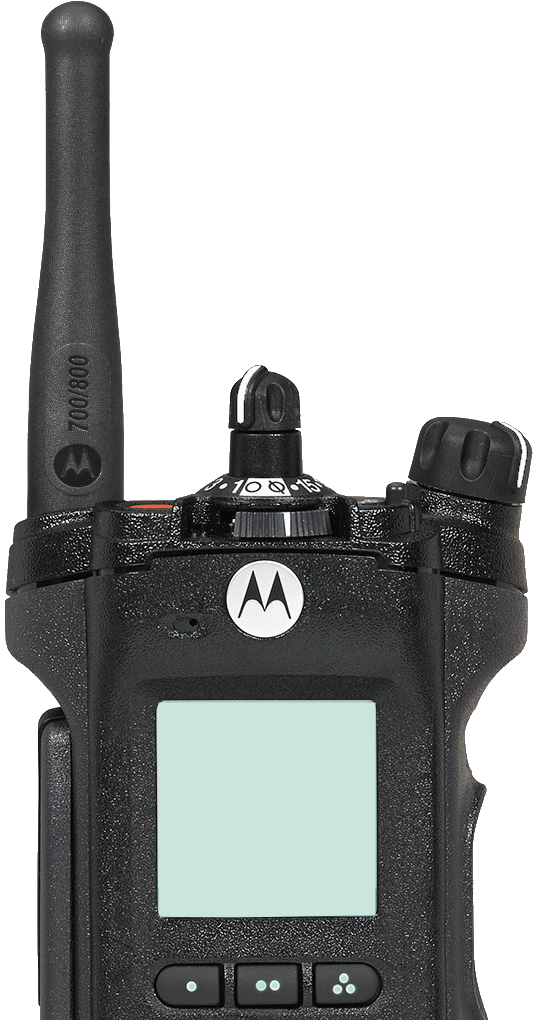
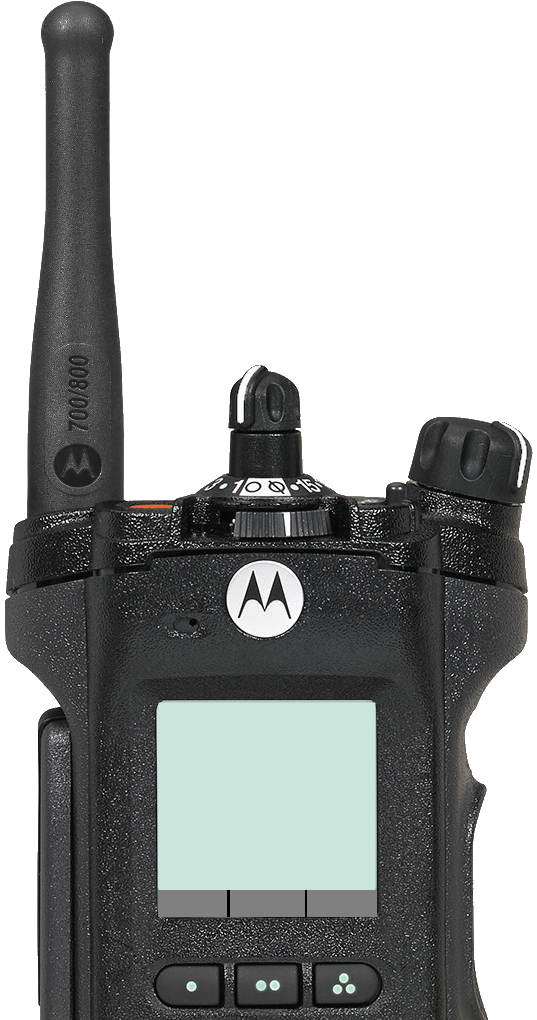
Added And Updated Models
Updated - APX6000 (RSSI and menu bar)
Add XTL2500 O5 HEAD

Changed region(s): [[0.298, 0.851, 0.7151, 0.9118]]

diff --git a/client/ui/models/XTL2500-O5/style.css b/client/ui/models/XTL2500-O5/style.css
@@ -7,14 +7,14 @@
 
 #radio-image {
     display: block;
-    width: 300px;
+    width: 600px;
     height: auto;
     position: relative;
 }
 #rssi-icon {
  position: fixed;
-    bottom: 163px;
-    right: 200px;
+    bottom: 130px;
+    right: 425px;
     display: inline-block;
 }
 
@@ -33,11 +33,13 @@
 }
 
 #channel-up {
-    left: 63%;
+    left: 69%;
+    top: 75%;
 }
 
 #zone-up {
-    left: 37%;
+    left: 32%;
+    top: 75%;
 }
 
 #line1, #line2, #line3 {
@@ -59,7 +61,7 @@
     left: 50%;
     transform: translateX(-50%);
     z-index: 1;
-    color: white;
+    color: #8EA595;
     font-size: 17px;
     font-family: Helvetica, serif;
     font-weight: bold;
@@ -71,33 +73,33 @@
 
 #softText1 {
     font-size: 12px;
-    top: 87.2%;
-    left: 36%;
+    top: 54%;
+    left: 32%;
 }
 
 #softText2 {
     font-size: 12px;
-      top: 87.2%;
+    top: 87%;
     left: 36%;
 }
 
 #softText3 {
     font-size: 12px;
-      top: 87.2%;
-    left: 63.5%;
+    top: 54%;
+    left: 69%;
 }
 
 #line1 {
-    top: 73%;
+    top: 25%;
 }
 
 #line2 {
-    top: 77%;
+    top: 35%;
     font-size: 15px;
 }
 
 #line3 {
-    top: 81.5%;
+    top: 43%;
     font-size: 14px;
     left: 49.5%;
     width: 41%;
